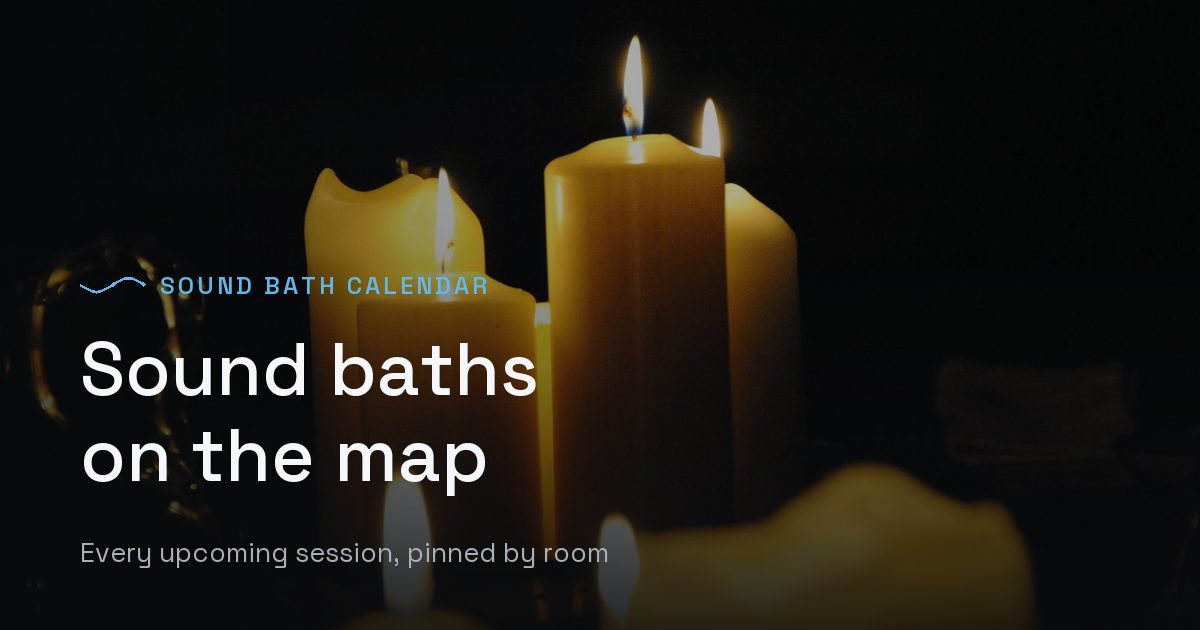
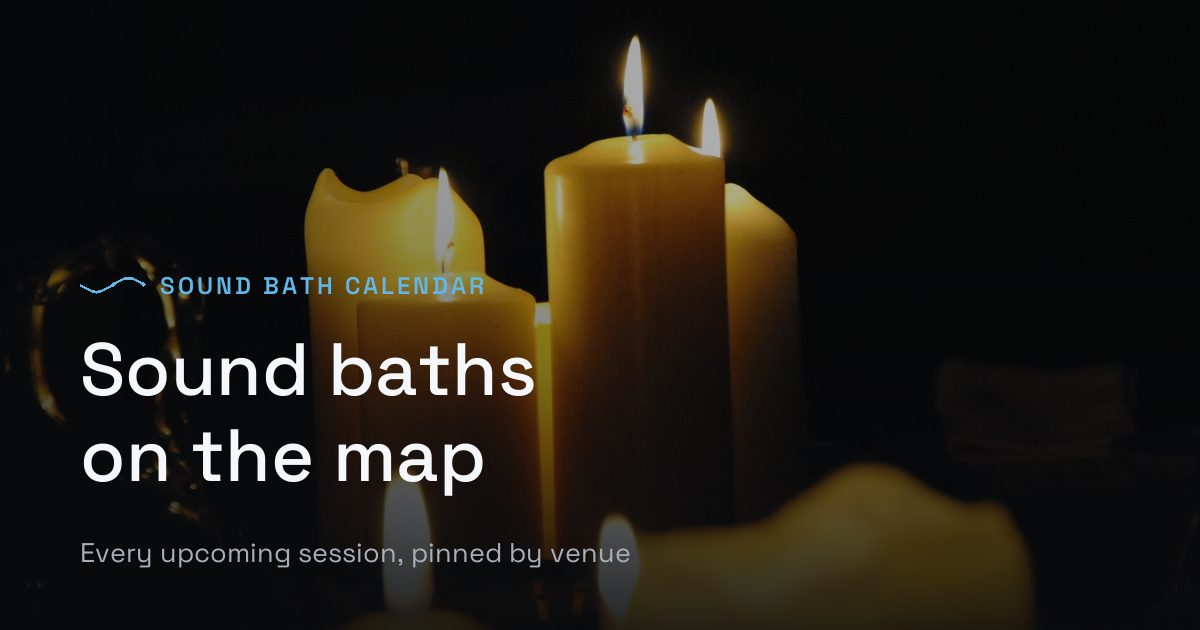
og.py: venue, not room, on the map and venues share cards
The rooms-vocabulary sweep (0330c4c) missed scripts/og.py — it is
local-only, so the banned noun stayed baked into two committed share
cards. Map sub now reads "pinned by venue" (matching mapview.py's own
summary line) and the venues sub "Every venue worth knowing", matching
the roundup retitle. Cards regenerated; the other eleven re-encoded
byte-different under local Pillow with unchanged copy, so they were
restored rather than churned.

diff --git a/scripts/og.py b/scripts/og.py
@@ -140,7 +140,7 @@ CARDS = [
      'Denver · Boulder · Fort Collins · Colorado Springs · updated weekly'),
     ('img/og/map.jpg', 'pexels-8617327.jpg', (0.5, 0.50),
      ['Sound baths', 'on the map'],
-     'Every upcoming session, pinned by room'),
+     'Every upcoming session, pinned by venue'),
     ('img/og/tags.jpg', 'pexels-6013471.jpg', (0.5, 0.55),
      ['Browse by tag'],
      'What makes the sound · why people come · the setting'),
@@ -150,7 +150,7 @@ CARDS = [
      ['Breathwork + sound', 'on the Front Range'], CITY_SUB),
     ('img/og/venues.jpg', 'pexels-5602498.jpg', (0.5, 0.45),
      ['Sound bath venues'],
-     'Every room worth knowing · directions · what is on next'),
+     'Every venue worth knowing · directions · what is on next'),
     ('img/og/practitioners.jpg', 'pexels-3544322.jpg', (0.5, 0.50),
      ['Practitioners'],
      'The facilitators leading sound baths on the Front Range'),